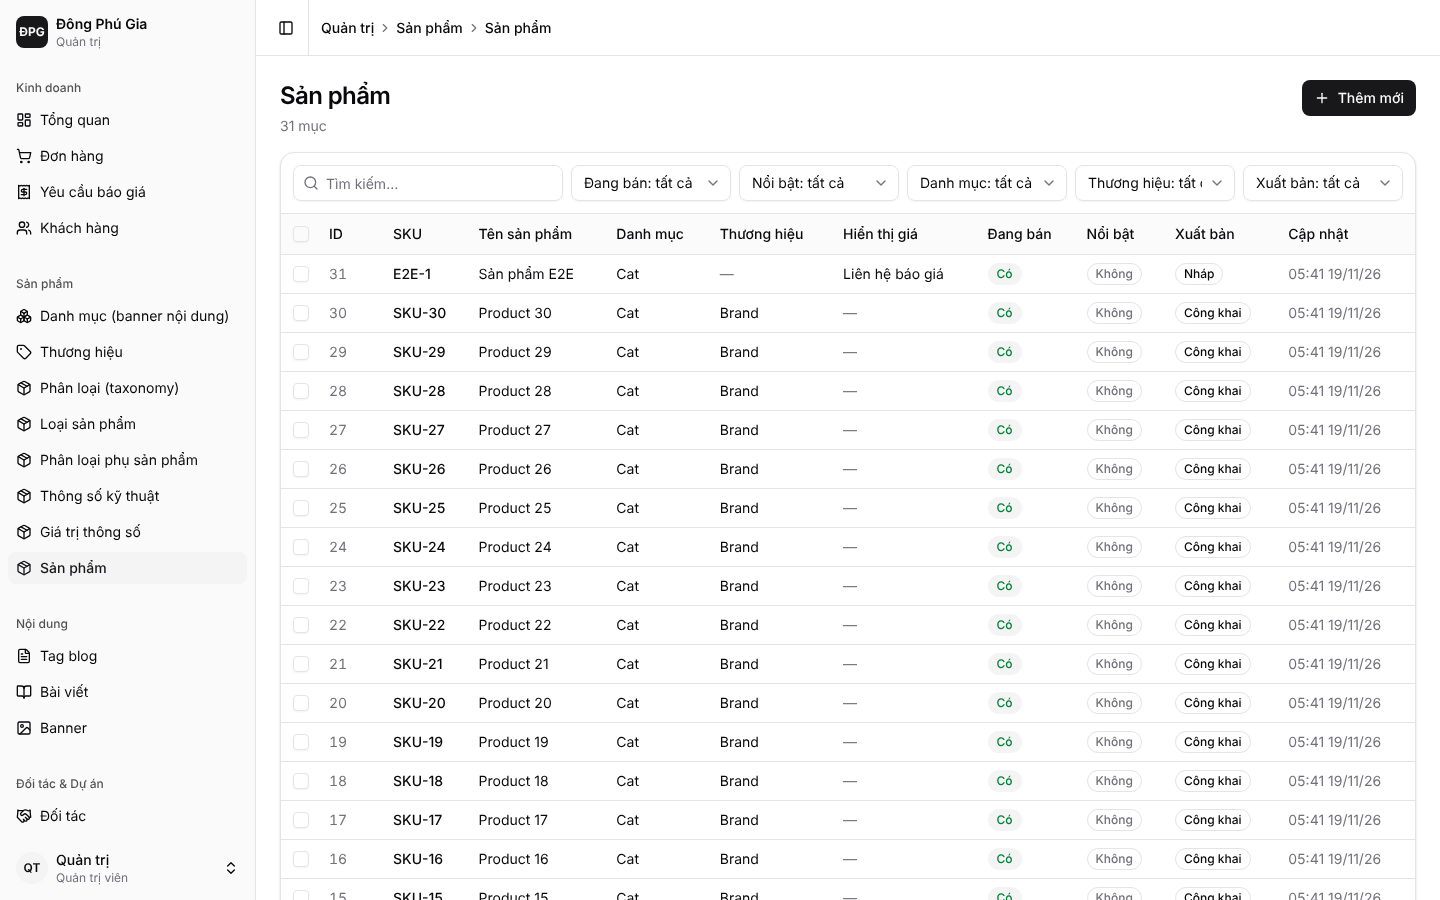
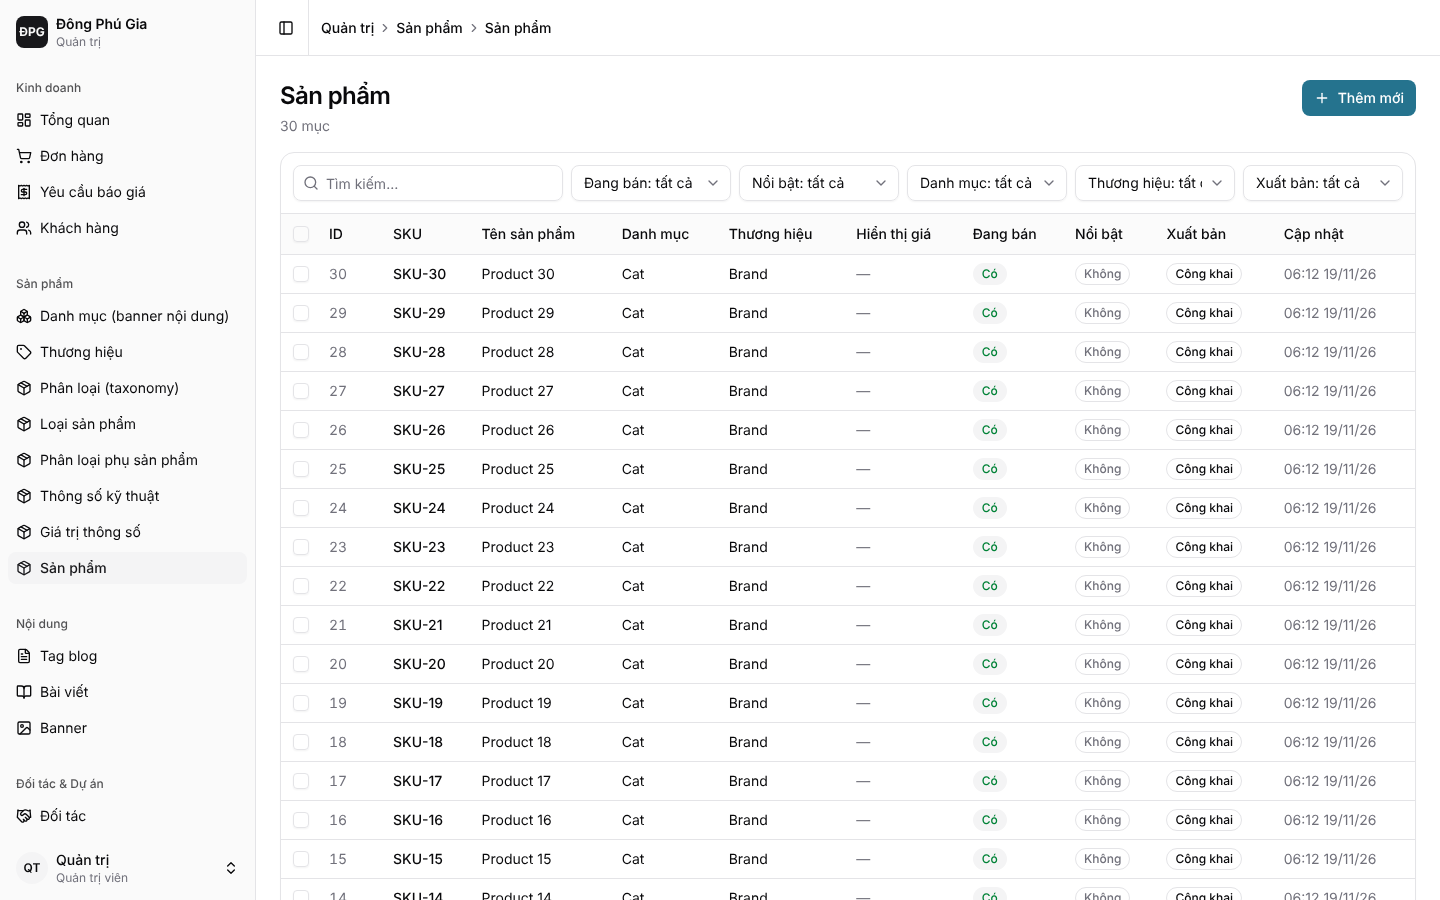
Admin UI: brand-blue primary CTA only (create/save/sign in) and softer card/table shadow (#309)
Claude-Session: https://claude.ai/code/session_018WnnYPy2obSVrg9Hwe3kAd

diff --git a/apps/admin-spa/src/Resource.tsx b/apps/admin-spa/src/Resource.tsx
@@ -15,7 +15,7 @@ import { Tabs, TabsContent, TabsList, TabsTrigger } from '@/components/ui/tabs'
 import { Textarea } from '@/components/ui/textarea'
 import { cn } from '@/lib/utils'
 import { api, ApiError, errorText, uploadImage, type FieldMeta, type ResourceMeta, type Row } from './api'
-import { Alert, EmptyState, NativeSelect, PageHeader, SkeletonRows, money, toast, useConfirm } from './ui'
+import { Alert, CTA, EmptyState, NativeSelect, PageHeader, SkeletonRows, money, toast, useConfirm } from './ui'
 
 const RichText = lazy(() => import('./RichText'))
 const BASE = '/admin-next'
@@ -76,7 +76,7 @@ export function ResourceList({ meta, go }: { meta: ResourceMeta; go: (to: string
   const open = (id: unknown) => go(`/r/${meta.key}/${id}`)
   return (
     <div className="grid grid-cols-[minmax(0,1fr)] gap-4">
-      <PageHeader title={meta.label} description={loading && !data.total ? undefined : `${data.total} mục`} actions={meta.canCreate && <Button onClick={() => go(`/r/${meta.key}/new`)}><Plus />Thêm mới</Button>} />
+      <PageHeader title={meta.label} description={loading && !data.total ? undefined : `${data.total} mục`} actions={meta.canCreate && <Button className={CTA} onClick={() => go(`/r/${meta.key}/new`)}><Plus />Thêm mới</Button>} />
       <Card className="gap-0 overflow-hidden py-0">
         <div className="flex flex-wrap items-center gap-2 border-b p-3">
           {meta.searchable && <div className="relative min-w-48 flex-1 sm:max-w-xs"><Search className="pointer-events-none absolute top-2.5 left-2.5 size-4 text-muted-foreground" /><Input type="search" aria-label="Tìm kiếm" placeholder="Tìm kiếm…" className="pl-8" value={q} onChange={(e) => setQ(e.target.value)} /></div>}
@@ -309,7 +309,7 @@ export function ResourceForm({ meta, id, go, resources = [] }: { meta: ResourceM
       )}
       {isProduct && creating && relationSections}
       <div className="sticky bottom-0 z-10 -mx-4 flex flex-wrap items-center justify-between gap-2 border-t bg-background/95 px-4 py-3 backdrop-blur md:-mx-6 md:px-6">
-        {canEdit ? <Button disabled={busy}>{busy ? <Loader2 className="animate-spin" /> : <Save />}{busy ? 'Đang xử lý…' : creating ? 'Tạo' : 'Lưu thay đổi'}</Button> : <p className="text-sm text-muted-foreground">Vai trò của bạn chỉ có quyền xem.</p>}
+        {canEdit ? <Button className={CTA} disabled={busy}>{busy ? <Loader2 className="animate-spin" /> : <Save />}{busy ? 'Đang xử lý…' : creating ? 'Tạo' : 'Lưu thay đổi'}</Button> : <p className="text-sm text-muted-foreground">Vai trò của bạn chỉ có quyền xem.</p>}
         {!creating && meta.canDelete && <Button type="button" variant="outline" className="text-destructive hover:text-destructive" disabled={busy} onClick={async () => {
           if (!(await confirm({ title: 'Xóa mục này?', description: 'Thao tác không thể hoàn tác.', confirmLabel: 'Xóa', destructive: true }))) return
           setBusy(true); setError('')

diff --git a/apps/admin-spa/src/Login.tsx b/apps/admin-spa/src/Login.tsx
@@ -5,7 +5,7 @@ import { Card, CardContent, CardDescription, CardHeader, CardTitle } from '@/com
 import { Input } from '@/components/ui/input'
 import { Label } from '@/components/ui/label'
 import { api, errorText, type User } from './api'
-import { Alert } from './ui'
+import { Alert, CTA } from './ui'
 
 export function Login({ onDone }: { onDone: (user: User) => void }) {
   const [email, setEmail] = useState(''); const [password, setPassword] = useState(''); const [error, setError] = useState(''); const [busy, setBusy] = useState(false)
@@ -26,7 +26,7 @@ export function Login({ onDone }: { onDone: (user: User) => void }) {
               <div className="grid gap-2"><Label htmlFor="login-email">Email</Label><Input id="login-email" type="email" autoComplete="username" required value={email} onChange={(e) => setEmail(e.target.value)} /></div>
               <div className="grid gap-2"><Label htmlFor="login-password">Mật khẩu</Label><Input id="login-password" type="password" autoComplete="current-password" required value={password} onChange={(e) => setPassword(e.target.value)} /></div>
               {error && <Alert>{error}</Alert>}
-              <Button disabled={busy}>{busy && <Loader2 className="animate-spin" />}{busy ? 'Đang đăng nhập…' : 'Đăng nhập'}</Button>
+              <Button className={CTA} disabled={busy}>{busy && <Loader2 className="animate-spin" />}{busy ? 'Đang đăng nhập…' : 'Đăng nhập'}</Button>
             </form>
           </CardContent>
         </Card>

diff --git a/apps/admin-spa/src/ui.tsx b/apps/admin-spa/src/ui.tsx
@@ -8,6 +8,8 @@ import { Skeleton } from '@/components/ui/skeleton'
 import { cn } from '@/lib/utils'
 
 export { toast }
+/** Brand-coloured primary call to action: exactly one per page (create / save / sign in). */
+export const CTA = 'bg-brand text-white hover:bg-brand-hover focus-visible:ring-brand/40'
 export const Toaster = () => <Sonner position="top-right" richColors={false} closeButton toastOptions={{ classNames: { toast: 'border bg-popover text-popover-foreground shadow-lg', description: 'text-muted-foreground' } }} />
 
 type Confirm = { title: string; description?: string; confirmLabel?: string; destructive?: boolean }

diff --git a/apps/admin-spa/src/styles.css b/apps/admin-spa/src/styles.css
@@ -31,6 +31,11 @@
   --color-ring: oklch(0.705 0.015 286.067);
   --color-success: oklch(0.527 0.154 150.069);
   --color-warning: oklch(0.666 0.179 58.318);
+  /* DPG brand blue, used only for the page's primary CTA (600 keeps white text AA at 14px). */
+  --color-brand: #25738E;
+  --color-brand-hover: #225D73;
+  /* Softer elevation for cards and tables. */
+  --shadow-sm: 0 1px 1px 0 rgb(0 0 0 / 0.04);
   --color-sidebar: oklch(0.985 0 0);
   --color-sidebar-foreground: oklch(0.141 0.005 285.823);
   --color-sidebar-primary: oklch(0.21 0.006 285.885);
